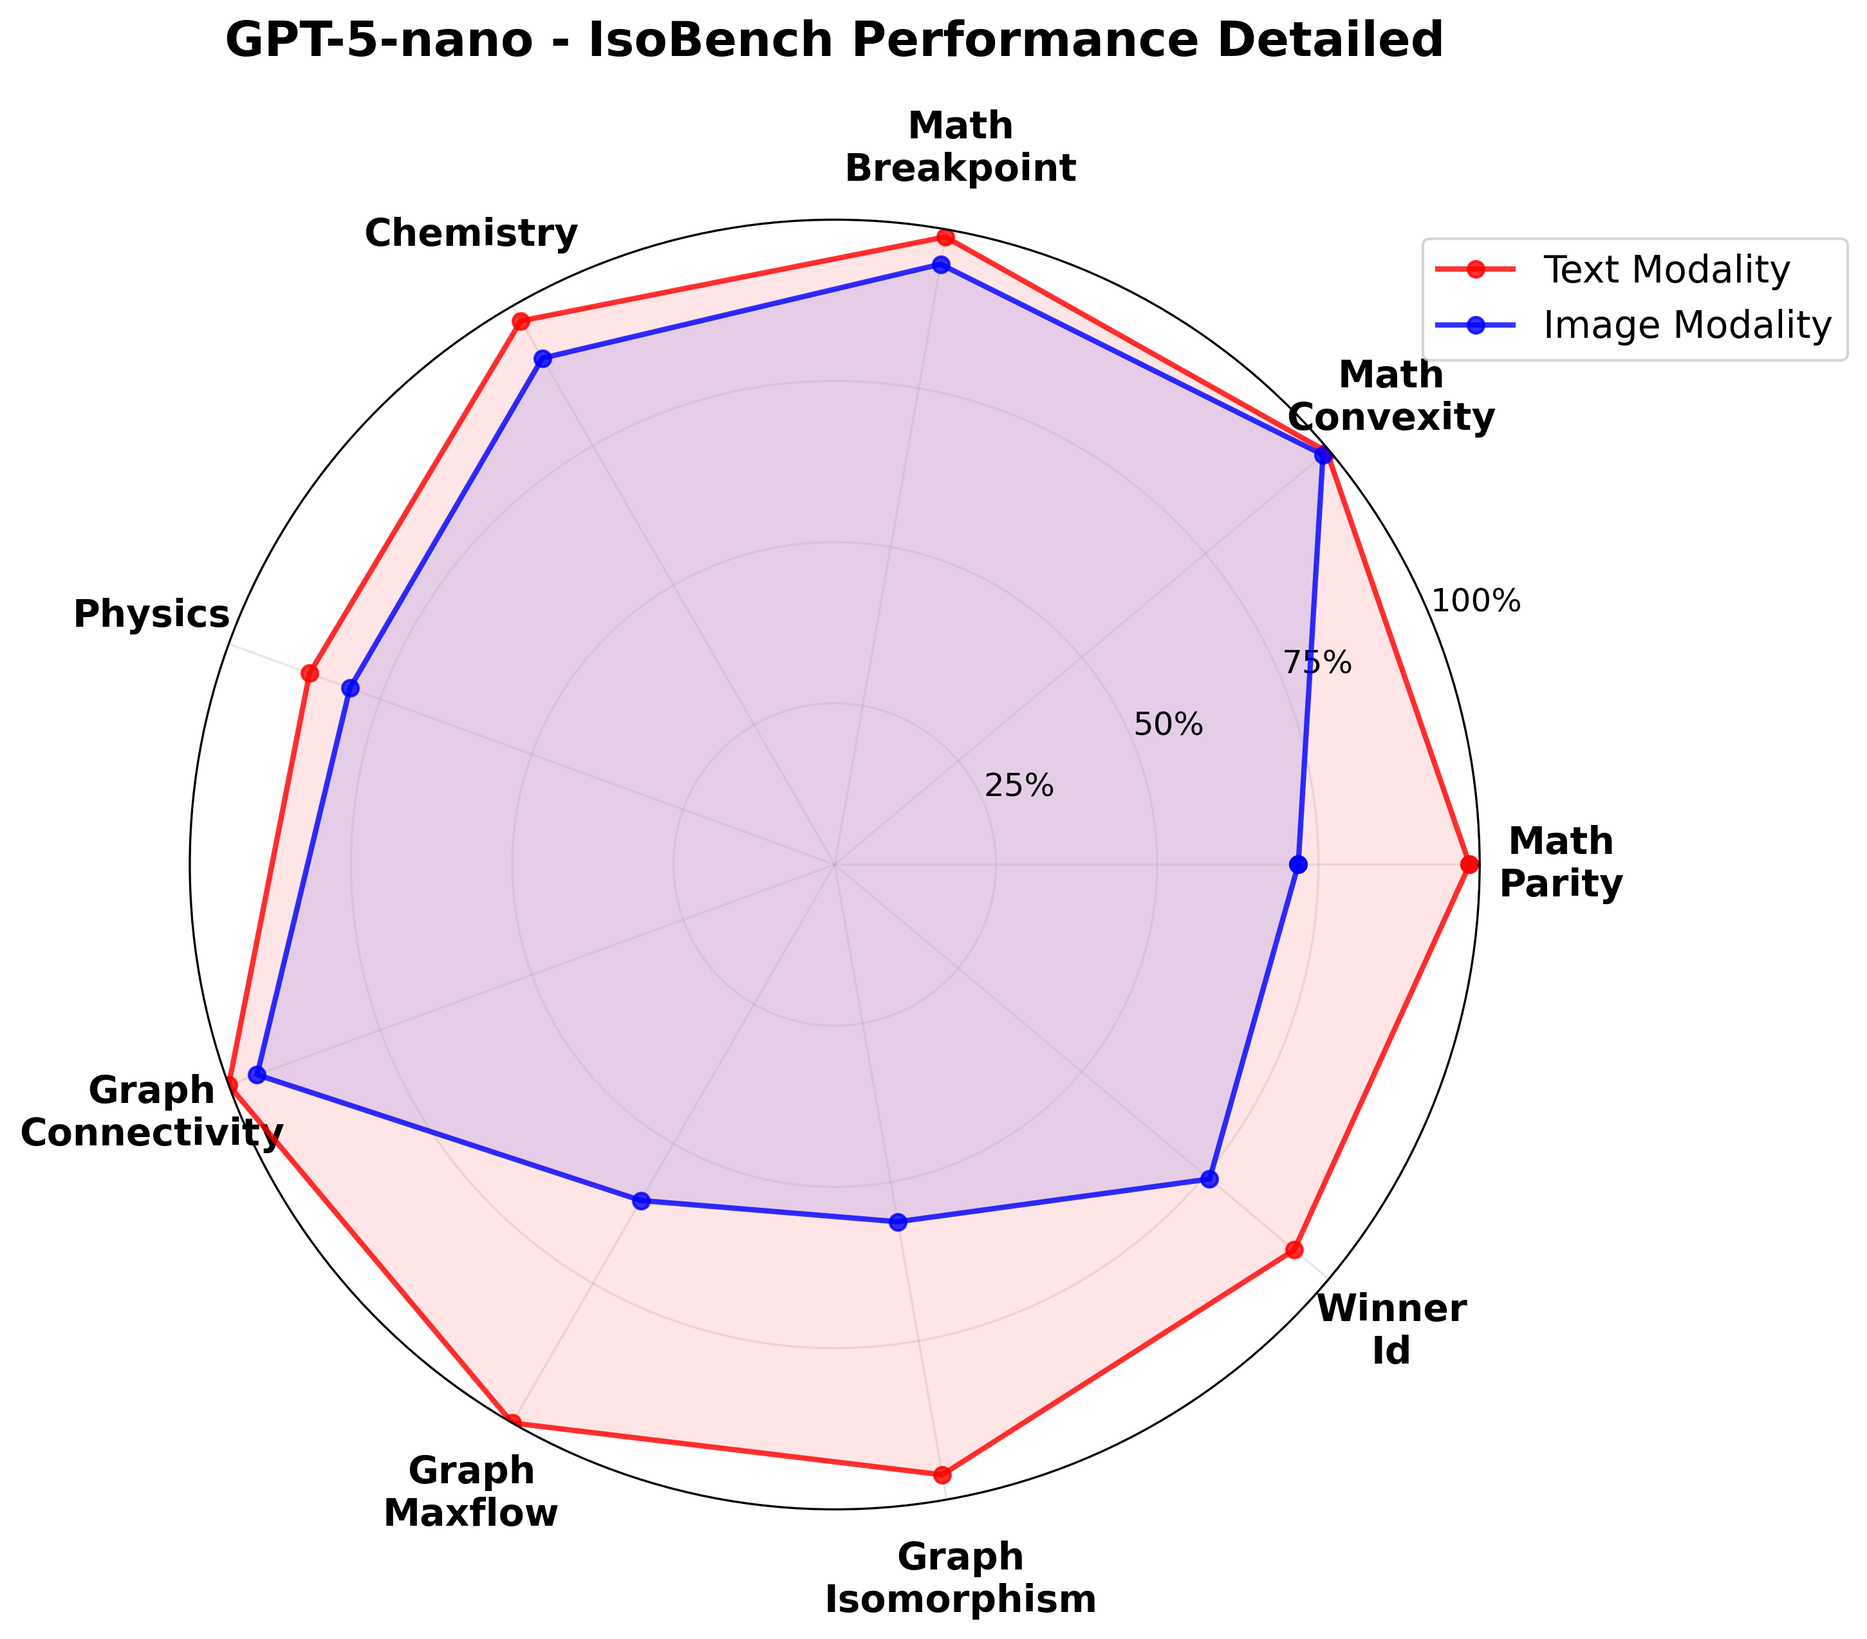
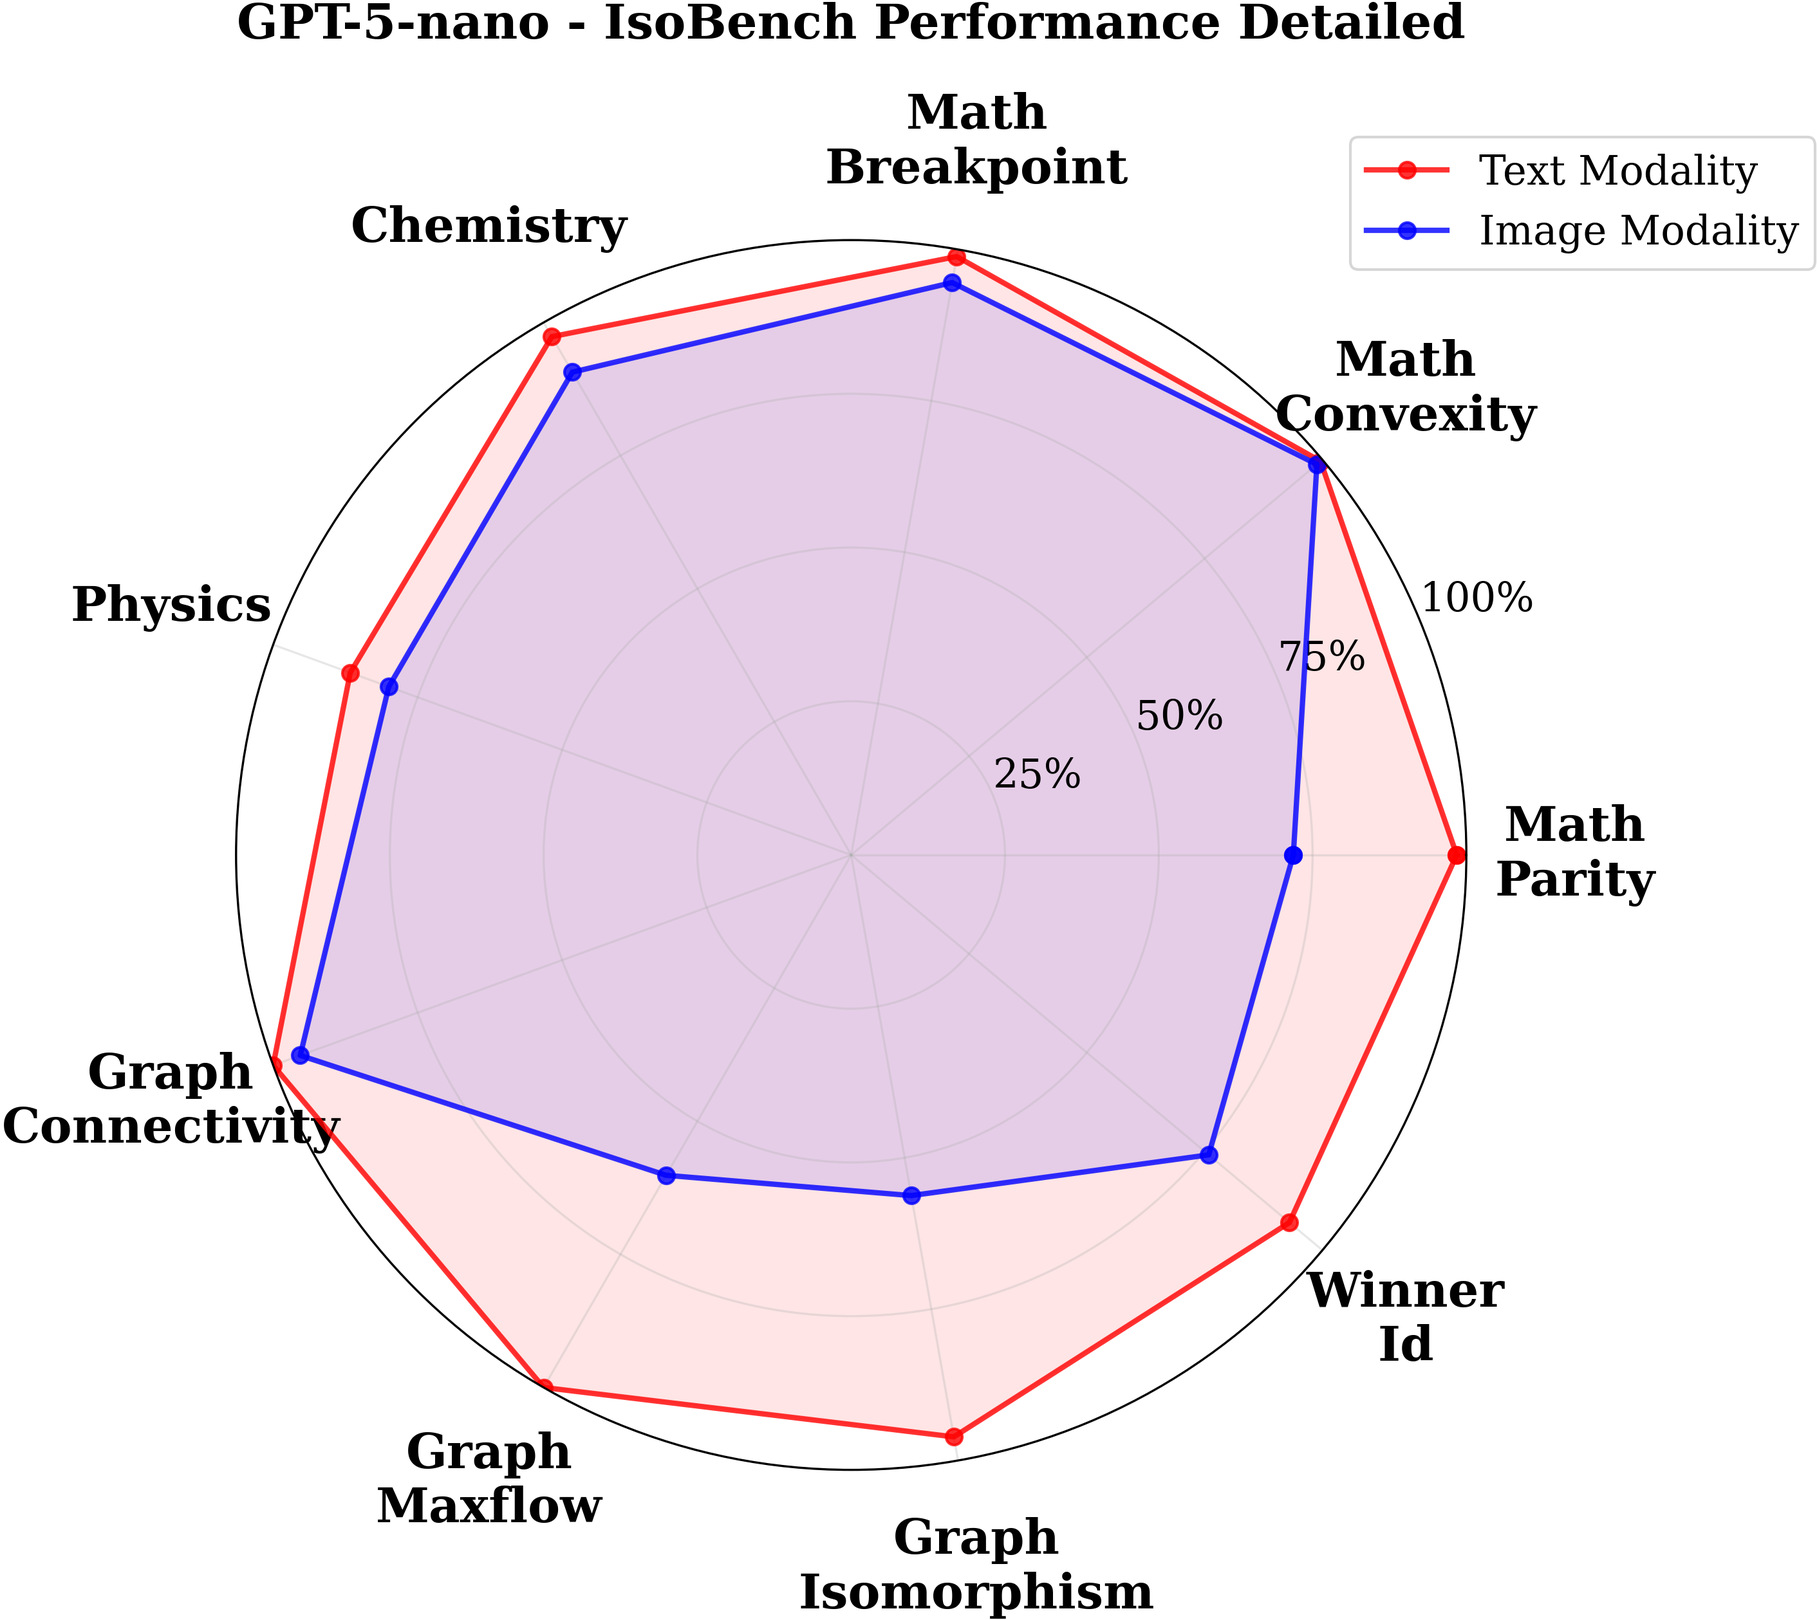
update

diff --git a/src/radar_plots.py b/src/radar_plots.py
@@ -13,6 +13,7 @@ from pathlib import Path
 from typing import Dict, List, Any, Optional
 import matplotlib.patches as patches
 
+plt.rcParams["font.family"] = "serif"
 logger = logging.getLogger(__name__)
 
 
@@ -198,26 +199,26 @@ class RadarPlotGenerator:
 
         # Set labels
         ax.set_xticks(angles[:-1])
-        ax.set_xticklabels(labels, fontsize=14, fontweight="bold")
+        ax.set_xticklabels(labels, fontsize=18, fontweight="bold")
 
         # Move labels further from the circle to avoid overlap
-        ax.tick_params(axis="x", pad=20)
+        ax.tick_params(axis="x", pad=30)
 
         # Set y-axis limits (0-100 for percentages)
         ax.set_ylim(0, 100)
         # ax.set_yticks([20, 40, 60, 80, 100])
         ax.set_yticks([25, 50, 75, 100])
-        ax.set_yticklabels(["25%", "50%", "75%", "100%"], fontsize=12)
+        ax.set_yticklabels(["25%", "50%", "75%", "100%"], fontsize=15)
         ax.grid(True, alpha=0.3)
 
         # Add title and legend
         plt.title(title, size=18, fontweight="bold", pad=20)
-        plt.legend(loc="upper right", bbox_to_anchor=(1.3, 1.0), fontsize=14)
+        plt.legend(loc="upper right", bbox_to_anchor=(1.3, 1.1), fontsize=15)
 
         # Save the plot
         output_file = self.output_dir / filename
         plt.tight_layout()
-        plt.savefig(output_file, dpi=300, bbox_inches="tight")
+        plt.savefig(output_file, dpi=300, bbox_inches="tight", pad_inches=0.01)
         plt.close()
 
         logger.info(f"Radar plot saved to: {output_file}")
@@ -266,6 +267,9 @@ class RadarPlotGenerator:
 
         # Create the figure
         fig, ax = plt.subplots(figsize=(12, 12), subplot_kw=dict(projection="polar"))
+
+        # Set font family to Sans Serif
+        plt.rcParams["font.family"] = "serif"
 
         # Number of variables
         num_vars = len(labels)
@@ -317,7 +321,7 @@ class RadarPlotGenerator:
 
         # Set labels
         ax.set_xticks(angles[:-1])
-        ax.set_xticklabels(labels, fontsize=14, fontweight="bold")
+        ax.set_xticklabels(labels, fontsize=18, fontweight="bold")
 
         # Move labels further from the circle to avoid overlap
         # ax.tick_params(axis="both", pad=0)
@@ -325,17 +329,17 @@ class RadarPlotGenerator:
         # Set y-axis
         ax.set_ylim(0, 100)
         ax.set_yticks([25, 50, 75, 100])
-        ax.set_yticklabels(["25%", "50%", "75%", "100%"], fontsize=12)
+        ax.set_yticklabels(["25%", "50%", "75%", "100%"], fontsize=15)
         ax.grid(True, alpha=0.3)
 
         # Add title and legend
         plt.title(title, size=18, fontweight="bold", pad=20)
-        plt.legend(loc="upper right", bbox_to_anchor=(1.3, 1.0), fontsize=14)
+        plt.legend(loc="upper right", bbox_to_anchor=(1.3, 1.0), fontsize=15)
 
         # Save the plot
         output_file = self.output_dir / filename
         plt.tight_layout()
-        plt.savefig(output_file, dpi=300, bbox_inches="tight")
+        plt.savefig(output_file, dpi=300, bbox_inches="tight", pad_inches=0.01)
         plt.close()
 
         logger.info(f"Comparison radar plot saved to: {output_file}")

diff --git a/README.md b/README.md
@@ -15,15 +15,19 @@ IsoBench is a benchmark dataset designed to evaluate multimodal reasoning capabi
 ## Features
 
 - ✅ **Multiple Foundation Models**: OpenAI GPT (including GPT-5 default), Google Gemini, Anthropic Claude
-- ✅ **Complete Task Coverage**: All IsoBench tasks across 4 domains
+- ✅ **Complete Task Coverage**: All IsoBench tasks across 4 domains  
 - ✅ **Dual Modality**: Text and image representation evaluation
+- ✅ **Enhanced Reporting**: Macro-task summaries with detailed performance breakdowns
+- ✅ **Professional Visualizations**: Radar plots with dual-modality comparisons
 - ✅ **Flexible Configuration**: Command-line arguments for customization
-- ✅ **Results Export**: JSON and CSV output formats
-- ✅ **Table 1 Reproduction**: Generate reports similar to the original paper
+- ✅ **Results Export**: Enhanced JSON and CSV output formats
+- ✅ **Table 1 Reproduction**: Generate detailed reports similar to the original paper
 - ✅ **Resume Functionality**: Skip completed evaluations with intelligent caching
 - ✅ **Comprehensive Logging**: Detailed JSON logs with full evaluation traces
 - ✅ **Multi-Model Aggregation**: Compare multiple models with dedicated aggregation script
 - ✅ **Long Prompt Support**: Use detailed prompts from paper appendix for better results
+
+**Important**: Currently only GPT models have been thoroughly tested. Gemini and Anthropic implementations are included but not fully validated.
 
 ## Installation
 
@@ -77,6 +81,14 @@ Options:
   --modalities {text,image}  Modalities to evaluate (default: text image)
   --max-samples N       Maximum samples per task (default: all samples)
   --output-dir DIR      Output directory for results (default: isobench_results)
+  --long-prompts        Use detailed prompts from paper appendix (default: short prompts)
+  --short-prompts       Use concise prompts for faster evaluation
+  --save-detailed-results   Save detailed results to JSON file
+  --generate-radar-plots    Generate radar plot visualizations (default: True)
+  --no-radar-plots      Disable radar plot generation
+  --resume              Resume from cached results if available (default: True)
+  --no-resume           Don't resume from cached results
+  --fresh-start         Override cached results and start fresh evaluation
   --api-key KEY         API key for the model (can also use env vars)
   --verbose             Enable verbose logging
   --help               Show help message
@@ -123,6 +135,48 @@ python eval.py --model gpt-4 --fresh-start
 ```bash
 python eval.py --model claude-3-opus-20240229 --tasks math_parity graph_connectivity --long-prompts --max-samples 100 --verbose
 ```
+
+## Enhanced Functionality
+
+### 🎯 Comprehensive Evaluation Summaries
+The framework now generates enhanced evaluation summaries with:
+- **Macro-task groupings**: Results organized by Math, Science, Algorithm, and Game categories
+- **Detailed modality breakdown**: Per-task and per-modality accuracy reporting
+- **Performance gap analysis**: Text vs. Image modality performance gaps
+- **Sample count tracking**: Total and correct sample counts for transparency
+
+### 📊 Enhanced Table 1 Reports
+Individual and aggregate reports now include:
+- **Task column**: Separate rows for each macro-task category plus an "All" summary
+- **Comprehensive metrics**: Text/Image accuracy, gaps, and sample counts
+- **Multi-format output**: Both detailed and simplified report versions
+
+Example enhanced report:
+```csv
+Model,Task,Text Accuracy,Image Accuracy,Gap (Text - Image),Gap (Points),Text Samples,Text Correct,Image Samples,Image Correct
+gpt-5-nano,Math,88.5%,76.2%,12.3%,12.3,768,679,768,585
+gpt-5-nano,Science,89.1%,71.8%,17.3%,17.3,384,342,384,276
+gpt-5-nano,Algorithm,85.7%,68.5%,17.2%,17.2,576,494,576,395
+gpt-5-nano,Game,92.3%,78.4%,13.9%,13.9,159,147,159,125
+gpt-5-nano,All,88.1%,72.3%,15.8%,15.8,1887,1662,1887,1381
+```
+
+### 📈 Advanced Radar Plot Visualizations
+Generate professional radar plots with:
+- **Dual-modality comparison**: Blue for image, red for text modality
+- **Two detail levels**: 
+  - Detailed plots: Individual task performance
+  - Macro plots: Performance by task category
+- **Multi-model comparison**: Compare up to 4 models on the same plot
+- **Professional styling**: Serif fonts, bold labels, optimized spacing
+- **High-resolution output**: 300 DPI PNG files ready for publications
+
+### 🔄 Intelligent Caching & Resume
+- **Automatic result caching**: Skip already evaluated samples
+- **Resume functionality**: Continue interrupted evaluations
+- **Fresh start option**: Override cache for complete re-evaluation
+
+**Note**: Currently, only GPT models have been thoroughly tested. Gemini and Anthropic model implementations are included but not fully validated.
 
 ## Available Tasks
 
@@ -201,23 +255,61 @@ IsoBench-Eval/
 - **`src/task_evaluators.py`**: Specialized evaluators for different task categories with caching and detailed logging
 - **`src/data_structures.py`**: Data classes for structured result storage and type safety
 
-## Output Structure
+## Enhanced Output Structure
 
-The framework generates a structured output directory with comprehensive logging and reporting:
+The framework generates a comprehensive output directory with detailed logging, enhanced reporting, and professional visualizations:
 
 ```
 isobench_results/
-├── model_name/                    # e.g., gpt-5, gpt-4, gemini-1.5-pro
-│   ├── math_parity.json          # Detailed task logs with predictions
-│   ├── math_convexity.json       # Full evaluation data per task
-│   ├── chemistry.json            
-│   ├── ...                       # One JSON file per evaluated task
-│   ├── evaluation_summary.json   # Aggregated statistics and accuracies
-│   └── individual_report.csv     # Table 1 format for this model only
-├── table1_report.csv             # Combined report (multi-model only)
-├── table1_comprehensive_report.csv # Detailed aggregation (via aggregate script)
-├── task_breakdown_report.csv     # Task-by-task analysis (via aggregate script)  
-└── isobench_evaluation.log       # Execution log
+├── model_name/                           # e.g., gpt-5, gpt-4, gemini-1.5-pro
+│   ├── math_parity.json                 # Detailed task logs with predictions
+│   ├── math_convexity.json              # Full evaluation data per task
+│   ├── chemistry.json                   
+│   ├── ...                              # One JSON file per evaluated task
+│   ├── evaluation_summary.json          # Enhanced statistics with macro-task summaries
+│   ├── individual_report.csv            # Enhanced Table 1 format for this model
+│   ├── model_name_detailed_radar.png    # Individual task radar plot
+│   └── model_name_macro_radar.png       # Macro-task radar plot
+├── table1_report.csv                    # Simplified combined report (All rows only)
+├── table1_comprehensive_report.csv      # Enhanced format with macro-task breakdown
+├── task_breakdown_report.csv            # Task-by-task analysis (via aggregate script)
+├── models_detailed_comparison_radar.png # Multi-model detailed comparison
+├── models_macro_comparison_radar.png    # Multi-model macro-task comparison
+└── isobench_evaluation.log              # Execution log
+```
+
+### Enhanced Files Generated
+
+1. **Task-level JSON logs** (`{task_name}.json`): Complete evaluation results with:
+   - Dataset samples and ground truth
+   - Model inputs and outputs  
+   - Parsing results and correctness
+   - Timestamps and metadata
+
+2. **Enhanced evaluation summary** (`evaluation_summary.json`): Comprehensive statistics with:
+   - Overall and per-task accuracies
+   - Text vs image modality breakdown with gaps
+   - Macro-task summaries (Math, Science, Algorithm, Game)
+   - Sample counts and performance metrics
+   - Performance gap analysis
+
+3. **Enhanced individual report** (`individual_report.csv`): Table 1 format with macro-task rows
+4. **Professional radar plots** (`.png`): High-resolution visualizations showing:
+   - Dual-modality performance comparison (text vs image)
+   - Individual task and macro-task views
+   - Multi-model comparisons
+5. **Execution log** (`isobench_evaluation.log`): Detailed run information
+
+### Enhanced Report Format
+
+**Macro-Task Breakdown Example:**
+```csv
+Model,Task,Text Accuracy,Image Accuracy,Gap (Text - Image),Gap (Points),Text Samples,Text Correct,Image Samples,Image Correct
+gpt-5,Math,88.5%,76.2%,12.3%,12.3,768,679,768,585
+gpt-5,Science,89.1%,71.8%,17.3%,17.3,384,342,384,276
+gpt-5,Algorithm,85.7%,68.5%,17.2%,17.2,576,494,576,395
+gpt-5,Game,92.3%,78.4%,13.9%,13.9,159,147,159,125
+gpt-5,All,88.1%,72.3%,15.8%,15.8,1887,1662,1887,1381
 ```
 
 ### Files Generated
@@ -237,79 +329,18 @@ isobench_results/
 4. **Combined reports**: Multi-model Table 1 comparison (when applicable)
 5. **Execution log** (`isobench_evaluation.log`): Detailed run information
 
-### Result Format
-
-**Summary Report Example:**
-```
-Model          Text Accuracy  Image Accuracy  Gap (Text - Image)  Gap (Points)
-GPT-5          85.2%          78.9%           6.3%                6.3
-GPT-4          82.1%          75.4%           6.7%                6.7
-Gemini-Pro     79.8%          73.2%           6.6%                6.6
-```
-
-**Task-level Results Example:**
-```
-=== Task-level Results for GPT-5 ===
-
-math_parity:
-  Text: 0.892
-  Image: 0.834
-
-math_convexity:
-  Text: 0.876
-  Image: 0.812
-  
-chemistry:
-  Text: 0.823
-  Image: 0.756
-```
-
-## Supported Models
-
-### OpenAI GPT Models
-- **GPT-5** (default): Latest GPT model (currently maps to GPT-4o)
-- **GPT-4**: GPT-4 Turbo with vision capabilities
-- **GPT-3.5**: GPT-3.5 Turbo
-
-### Google Gemini Models  
-- **Gemini 2.0 Flash Experimental**: Latest experimental model with fast response times
-- **Gemini 1.5 Pro**: Advanced multimodal capabilities and long context
-- **Gemini Ultra**: Most capable model (when available)
-
-### Anthropic Claude Models
-- **Claude-3 Opus**: Most capable Claude model
-- **Claude-3 Sonnet**: Balanced performance/cost
-- **Claude-3 Haiku**: Fast and efficient
-
-## Configuration
-
-### Environment Variables
-
-Set API keys using environment variables:
-```bash
-# OpenAI
-export OPENAI_API_KEY="sk-..."
-
-# Google Gemini  
-export GEMINI_API_KEY="AI..."
-# Alternative: GOOGLE_API_KEY also supported for backward compatibility
-
-# Anthropic Claude
-export ANTHROPIC_API_KEY="sk-ant-..."
-```
-
 ### Rate Limiting
 
 The framework includes built-in rate limiting (1 second delay between API calls) to respect API limits. Modify `rate_limit_delay` in model classes if needed.
 
 ## Multi-Model Analysis
 
-### Aggregating Results from Multiple Models
+### Enhanced Aggregating Results from Multiple Models
 
-When you've evaluated multiple models separately, use the aggregation script to combine results:
+When you've evaluated multiple models separately, use the enhanced aggregation script to combine results:
 
 ```bash
-# Aggregate all models in the output directory
+# Aggregate all models with full enhancements (radar plots, detailed reports)
 python aggregate_results.py --output-dir isobench_results
 
 # Aggregate specific models only  
@@ -317,12 +348,32 @@ python aggregate_results.py --models gpt-5 gpt-4 gemini-1.5-pro
 
 # Include detailed task-by-task breakdown
 python aggregate_results.py --include-task-breakdown --verbose
+
+# Generate without radar plots (if matplotlib not available)
+python aggregate_results.py --no-radar-plots
 ```
 
-This generates:
-- **`table1_comprehensive_report.csv`**: Full comparison with sample counts
-- **`table1_report.csv`**: Clean summary (Model, Text Accuracy, Image Accuracy, Gap)  
+### Enhanced Output Files
+
+The aggregation now generates:
+- **`table1_comprehensive_report.csv`**: Enhanced format with macro-task breakdown:
+  ```csv
+  Model,Task,Text Accuracy,Image Accuracy,Gap (Text - Image),Gap (Points),Text Samples,Text Correct,Image Samples,Image Correct
+  gpt-5,Math,88.5%,76.2%,12.3%,12.3,768,679,768,585
+  gpt-5,Science,89.1%,71.8%,17.3%,17.3,384,342,384,276
+  gpt-5,All,88.1%,72.3%,15.8%,15.8,1887,1662,1887,1381
+  ```
+- **`table1_report.csv`**: Simplified summary with "All" rows only
 - **`task_breakdown_report.csv`**: Per-task performance analysis (optional)
+- **Radar plots**: Professional visualizations comparing models across tasks
+  - `models_macro_comparison_radar.png`: Macro-task comparison
+  - `models_detailed_comparison_radar.png`: Individual task comparison
+
+### Radar Plot Features
+- **Dual modality visualization**: Text (red) vs Image (blue) performance
+- **Professional styling**: Serif fonts, bold labels, high-resolution output
+- **Multi-model comparison**: Up to 4 models on the same plot
+- **Two detail levels**: Macro-tasks and individual tasks
 
 ### Resume Functionality
 
